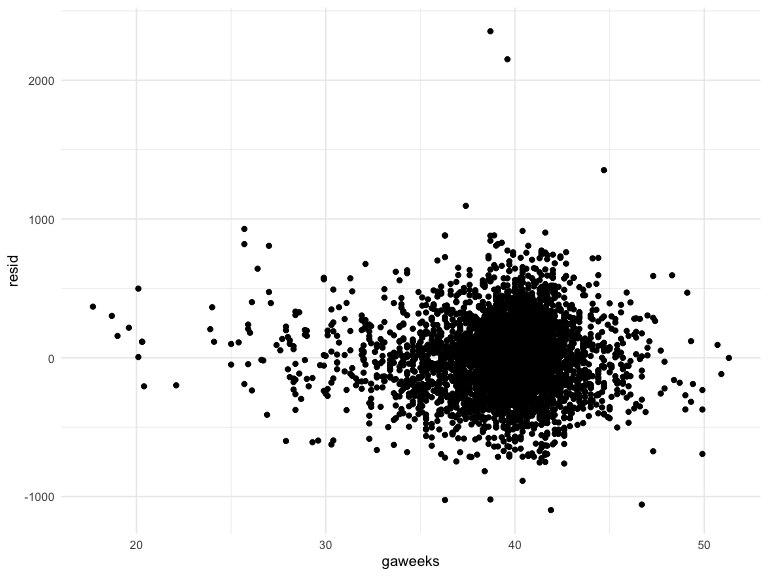
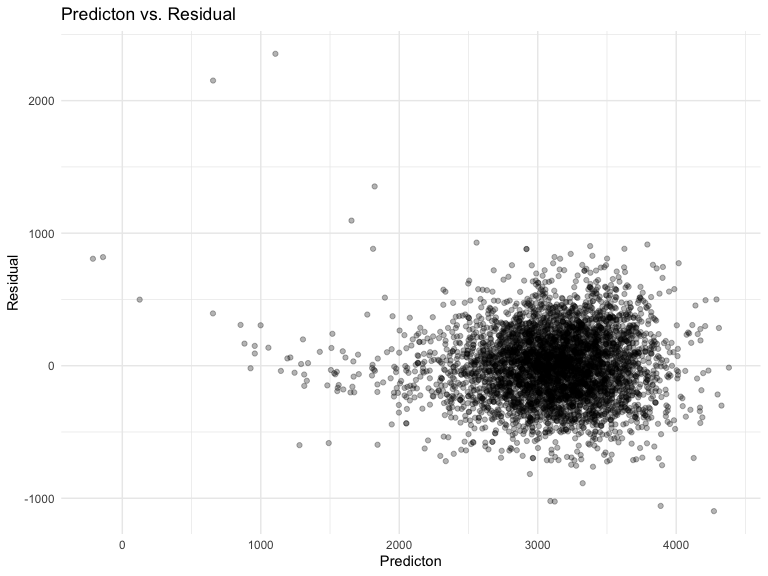
added three models for P2

diff --git a/p8105_hw6_cl4044.md b/p8105_hw6_cl4044.md
@@ -143,55 +143,91 @@ baby_df =
 
     ## See spec(...) for full column specifications.
 
-fit a model
+Stepwise regression model
 
 ``` r
 full_model = lm(bwt ~ ., data = baby_df) 
 step_model <- MASS::stepAIC(full_model, direction = "both", 
                       trace = FALSE)
-summary(step_model)
+step_model %>% 
+  broom::tidy() %>% 
+  knitr::kable(digits = 3)
 ```
 
-    ## 
-    ## Call:
-    ## lm(formula = bwt ~ babysex + bhead + blength + delwt + fincome + 
-    ##     gaweeks + mheight + mrace + parity + ppwt + smoken, data = baby_df)
-    ## 
-    ## Residuals:
-    ##      Min       1Q   Median       3Q      Max 
-    ## -1097.18  -185.52    -3.39   174.14  2353.44 
-    ## 
-    ## Coefficients:
-    ##                    Estimate Std. Error t value Pr(>|t|)    
-    ## (Intercept)      -6145.1507   141.9496 -43.291  < 2e-16 ***
-    ## babysexmale        -28.5580     8.4549  -3.378 0.000737 ***
-    ## bhead              130.7770     3.4466  37.944  < 2e-16 ***
-    ## blength             74.9471     2.0190  37.120  < 2e-16 ***
-    ## delwt                4.1067     0.3921  10.475  < 2e-16 ***
-    ## fincome              0.3180     0.1747   1.820 0.068844 .  
-    ## gaweeks             11.5925     1.4621   7.929 2.79e-15 ***
-    ## mheight              6.5940     1.7849   3.694 0.000223 ***
-    ## mraceBlack         -63.9057    42.3663  -1.508 0.131523    
-    ## mracePuero Rican   -25.7914    45.3502  -0.569 0.569578    
-    ## mraceWhite          74.8868    42.3146   1.770 0.076837 .  
-    ## parity              96.3047    40.3362   2.388 0.017004 *  
-    ## ppwt                -2.6756     0.4274  -6.261 4.20e-10 ***
-    ## smoken              -4.8434     0.5856  -8.271  < 2e-16 ***
-    ## ---
-    ## Signif. codes:  0 '***' 0.001 '**' 0.01 '*' 0.05 '.' 0.1 ' ' 1
-    ## 
-    ## Residual standard error: 272.3 on 4328 degrees of freedom
-    ## Multiple R-squared:  0.7181, Adjusted R-squared:  0.7173 
-    ## F-statistic: 848.1 on 13 and 4328 DF,  p-value: < 2.2e-16
+| term             |   estimate | std.error | statistic | p.value |
+| :--------------- | ---------: | --------: | --------: | ------: |
+| (Intercept)      | \-6145.151 |   141.950 |  \-43.291 |   0.000 |
+| babysexmale      |   \-28.558 |     8.455 |   \-3.378 |   0.001 |
+| bhead            |    130.777 |     3.447 |    37.944 |   0.000 |
+| blength          |     74.947 |     2.019 |    37.120 |   0.000 |
+| delwt            |      4.107 |     0.392 |    10.475 |   0.000 |
+| fincome          |      0.318 |     0.175 |     1.820 |   0.069 |
+| gaweeks          |     11.592 |     1.462 |     7.929 |   0.000 |
+| mheight          |      6.594 |     1.785 |     3.694 |   0.000 |
+| mraceBlack       |   \-63.906 |    42.366 |   \-1.508 |   0.132 |
+| mracePuero Rican |   \-25.791 |    45.350 |   \-0.569 |   0.570 |
+| mraceWhite       |     74.887 |    42.315 |     1.770 |   0.077 |
+| parity           |     96.305 |    40.336 |     2.388 |   0.017 |
+| ppwt             |    \-2.676 |     0.427 |   \-6.261 |   0.000 |
+| smoken           |    \-4.843 |     0.586 |   \-8.271 |   0.000 |
+
+Plot predicton values vs. residuals
 
 ``` r
 baby_df %>% 
   modelr::add_residuals(step_model) %>% 
-  ggplot(aes(x = gaweeks, y = resid)) + 
-  geom_point()
+  modelr::add_predictions(step_model) %>%
+  ggplot(aes(x = pred, y = resid)) + 
+  geom_point(alpha = 0.3) +
+  labs(
+    title = "Predicton vs. Residual",
+    x = "Predicton",
+    y = "Residual"
+  )
 ```
 
 <img src="p8105_hw6_cl4044_files/figure-gfm/unnamed-chunk-7-1.png" width="90%" />
+
+According to the plot above, most of the points are clustered around
+zero. There are some large residual points when prediction value is
+under 1000.
+
+Model 2: One using length at birth and gestational age as predictors
+(main effects only)
+
+``` r
+model_2 = lm(bwt ~ blength + gaweeks, data = baby_df) %>%
+  broom::tidy() %>% 
+  knitr::kable(digits = 3)
+model_2
+```
+
+| term        |   estimate | std.error | statistic | p.value |
+| :---------- | ---------: | --------: | --------: | ------: |
+| (Intercept) | \-4347.667 |    97.958 |  \-44.383 |       0 |
+| blength     |    128.556 |     1.990 |    64.604 |       0 |
+| gaweeks     |     27.047 |     1.718 |    15.744 |       0 |
+
+Model 3: One using head circumference, length, sex, and all interactions
+(including the three-way interaction) between these
+
+``` r
+model_3 = lm(bwt ~ bhead * blength * babysex, data = baby_df) %>%
+  broom::tidy() %>% 
+  knitr::kable(digits = 3)
+model_3
+```
+
+| term                      |   estimate | std.error | statistic | p.value |
+| :------------------------ | ---------: | --------: | --------: | ------: |
+| (Intercept)               |  \-801.949 |  1102.308 |   \-0.728 |   0.467 |
+| bhead                     |   \-16.598 |    34.092 |   \-0.487 |   0.626 |
+| blength                   |   \-21.646 |    23.372 |   \-0.926 |   0.354 |
+| babysexmale               | \-6374.868 |  1677.767 |   \-3.800 |   0.000 |
+| bhead:blength             |      3.324 |     0.713 |     4.666 |   0.000 |
+| bhead:babysexmale         |    198.393 |    51.092 |     3.883 |   0.000 |
+| blength:babysexmale       |    123.773 |    35.119 |     3.524 |   0.000 |
+| bhead:blength:babysexmale |    \-3.878 |     1.057 |   \-3.670 |   0.000 |
 
 ## Problem 3
 
